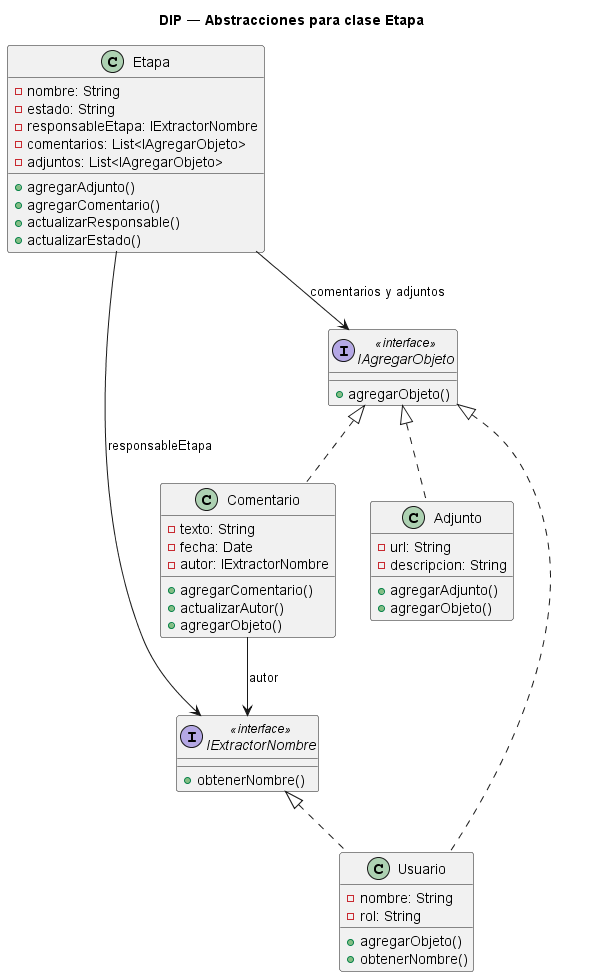
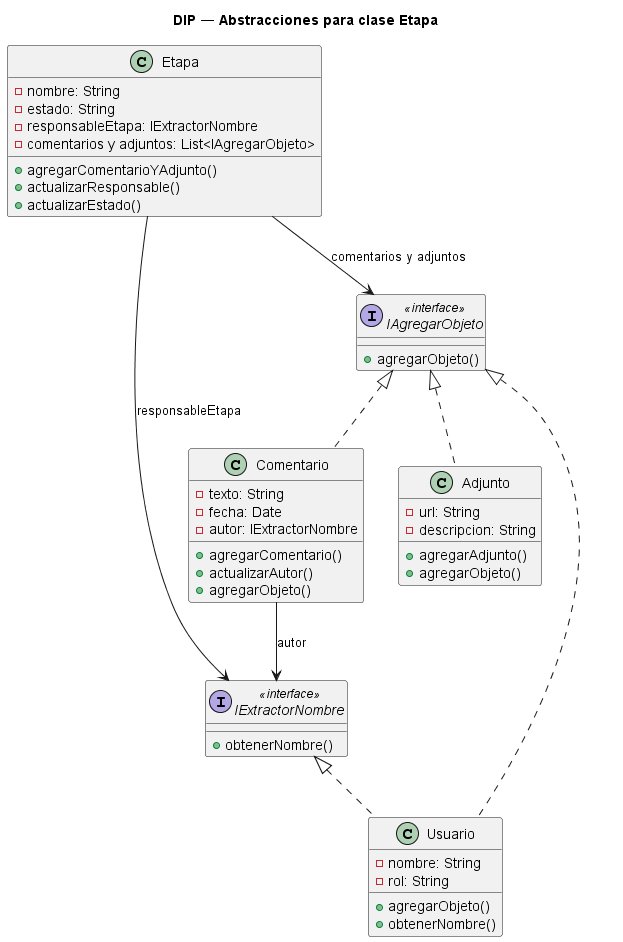
Update archivos DIP

diff --git a/anexos/principios-solid/05-dip.md b/anexos/principios-solid/05-dip.md
@@ -10,7 +10,7 @@ Para solucionarlo se aplicara el Principio DIP para crear abstracciones de las c
 
 El boceto actual contiene la clase Etapa, que depende de las clases Usuario, Adjunto y Comentario para actualizar los atributos de la clase, por lo cual esta completamente acoplada al buscar extraer información de tres clases concretas diferentes directamente.
 
-Se usara el Principio DIP para crear abstracciones encargadas de obtener la información de los atributos de clase para reemplazar las dependencias de para actualizar los atributos de la clase Etapa.
+Se usara el Principio DIP para crear abstracciones encargadas de obtener la información de los atributos de clase para reemplazar las dependencias de para actualizar/reemplazar los atributos de la clase Etapa.
 
 ## Explicación de Clases Abstractas e Interfaces
 
@@ -32,4 +32,4 @@ Las interfaces introducidas son:
 La interfaz provee el método obtenerNombre() para acceder al atributo "nombre" de la clase Usuario y responder a los métodos "actualizarResponsable()" y "actualizarAutor()" de las clases dependientes.
 
 - "IAgregarObjeto", del cual depende la clase Etapa, y se extiende a la clases Comentario y Adjunto.   
-La interfaz provee el método agregarObjeto() para crear un objeto correspondiente de las clases Comentario o Adjunto, el cual pasara directamente a formar parte de la lista correspondiente entre los atributos "comentarios" o "adjuntos" de la Etapa.
+La interfaz provee el método agregarObjeto() para crear un objeto correspondiente de las clases Comentario o Adjunto, el cual pasara directamente a formar parte de la lista del atributo "comentarios y adjuntos" de la clase Etapa.
